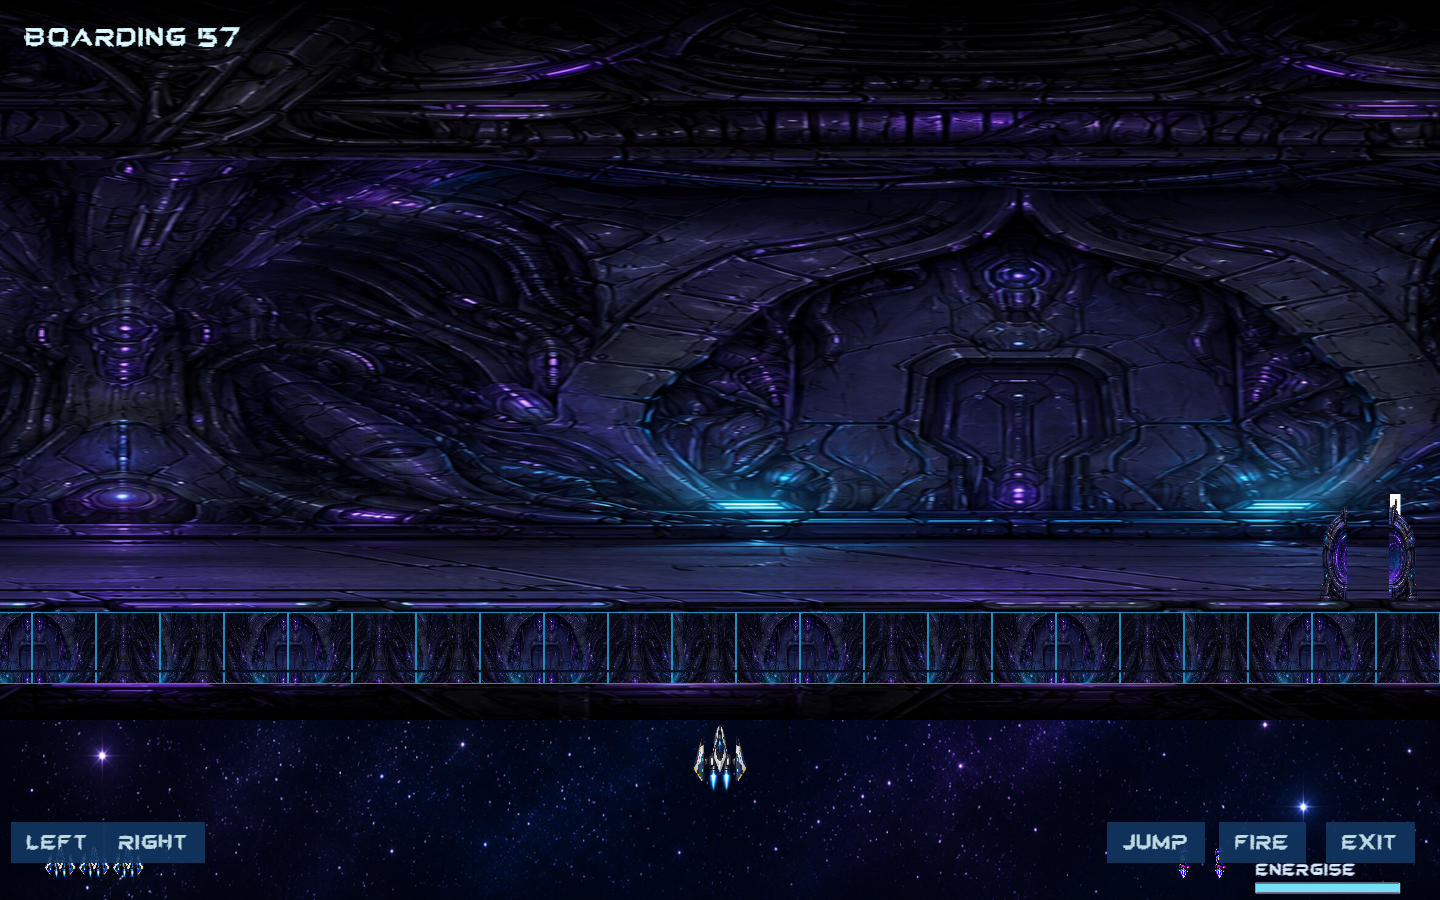
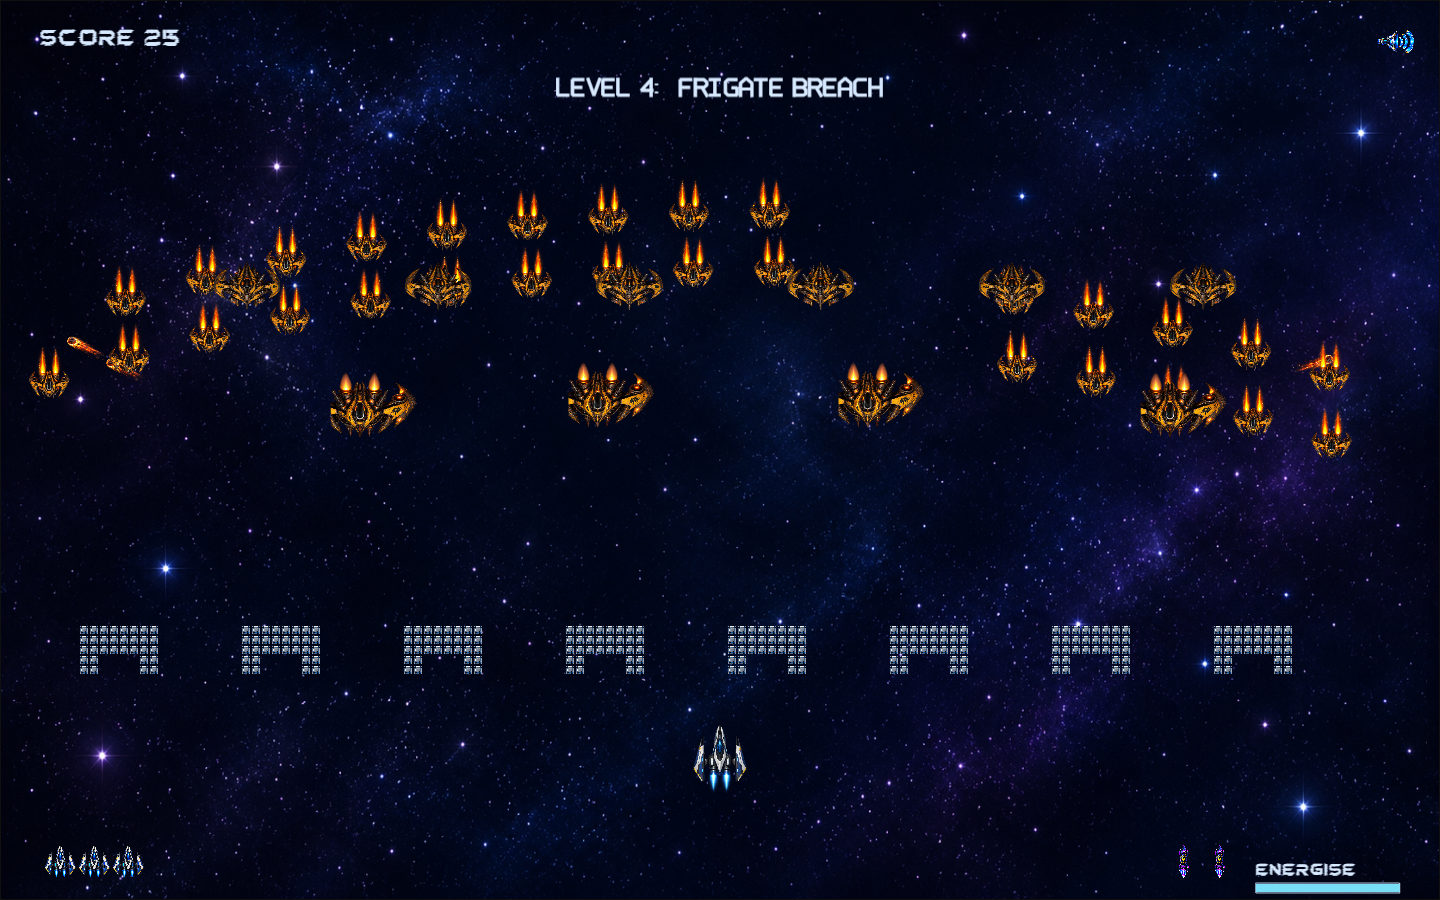
fix(h015): stabilize ordinary browser assurance

diff --git a/tests/e2e/designer-pointer.spec.ts b/tests/e2e/designer-pointer.spec.ts
@@ -58,8 +58,20 @@ test("H015-DES-POINTER-001__e2e_ordinary_user__native_mouse_drag_undo_redo_is_ex
   page,
   strictRuntime,
 }) => {
+  test.skip(
+    "hasTouch" in test.info().project.use &&
+      Boolean(test.info().project.use.hasTouch),
+    "Native mouse drag is exercised by the desktop project.",
+  );
   await loginAsAdministrator(page);
   const zoom = page.getByLabel("Canvas zoom");
+  const gridSize = Number(
+    await page
+      .getByLabel("Level configuration")
+      .getByLabel("Grid size")
+      .inputValue(),
+  );
+  expect([8, 16, 24, 32]).toContain(gridSize);
   const playfield = page.locator(".designer-playfield");
 
   for (const value of ["0.5", "0.75", "1", "1.25", "1.5"]) {
@@ -83,8 +95,8 @@ test("H015-DES-POINTER-001__e2e_ordinary_user__native_mouse_drag_undo_redo_is_ex
     expect(after.x).toBeLessThanOrEqual(1280);
     expect(after.y).toBeGreaterThanOrEqual(0);
     expect(after.y).toBeLessThanOrEqual(720);
-    expect(after.x % 16).toBe(0);
-    expect(after.y % 16).toBe(0);
+    expect(after.x % gridSize).toBe(0);
+    expect(after.y % gridSize).toBe(0);
     await page.getByRole("button", { name: "Undo" }).click();
     await expect(entity).toHaveAttribute("aria-label", beforeLabel);
     await page.getByRole("button", { name: "Redo" }).click();
@@ -103,6 +115,11 @@ test("H015-DES-POINTER-001__e2e_ordinary_user_negative__outside_drag_is_clamped_
   page,
   strictRuntime,
 }) => {
+  test.skip(
+    "hasTouch" in test.info().project.use &&
+      Boolean(test.info().project.use.hasTouch),
+    "Native mouse drag is exercised by the desktop project.",
+  );
   await loginAsAdministrator(page);
   const entity = await reachableScout(page);
   const beforeLabel = await entity.getAttribute("aria-label");
@@ -248,6 +265,11 @@ test("H015-DES-POINTER-002__e2e_ordinary_user__touch_chooser_places_a_canonical_
   page,
   strictRuntime,
 }) => {
+  test.skip(
+    !("hasTouch" in test.info().project.use) ||
+      !test.info().project.use.hasTouch,
+    "Touch interaction is exercised by the mobile and tablet projects.",
+  );
   await loginAsAdministrator(page);
   const scouts = page.locator('button[aria-label^="SCOUT at"]');
   const before = await scouts.count();
@@ -282,6 +304,11 @@ test("H015-DES-POINTER-002__e2e_ordinary_user_negative__touch_cancel_leaves_the_
   page,
   strictRuntime,
 }) => {
+  test.skip(
+    !("hasTouch" in test.info().project.use) ||
+      !test.info().project.use.hasTouch,
+    "Touch interaction is exercised by the mobile and tablet projects.",
+  );
   await loginAsAdministrator(page);
   const scouts = page.locator('button[aria-label^="SCOUT at"]');
   const before = await scouts.count();

diff --git a/tests/e2e/tenant-isolation.spec.ts b/tests/e2e/tenant-isolation.spec.ts
@@ -51,6 +51,10 @@ test("H015-PERM-002__e2e_ordinary_user_negative__command_post_member_cannot_open
   strictRuntime,
 }) => {
   await loginToCommandPost(page);
+  strictRuntime.allowRequestFailure(
+    /\/command-post\/[a-z0-9-]+\?_rsc=/,
+    /net::ERR_ABORTED/,
+  );
   strictRuntime.allowHttpFailure(
     /\/api\/v1\/portal\/organizations\/unrelated-tenant\/$/,
     404,

diff --git a/backend/tests/test_auth_surfaces.py b/backend/tests/test_auth_surfaces.py
@@ -1,7 +1,9 @@
 from django.contrib.auth.models import Permission
 from django.test import TestCase
-from rest_framework.test import APIClient
+from rest_framework.test import APIClient, APIRequestFactory
+from rest_framework.views import APIView
 
+from accounts.api import AuthenticationThrottle
 from accounts.models import User
 from players.models import PlayerProfile
 
@@ -38,6 +40,26 @@ class AuthenticationSurfaceTests(TestCase):
         )
         self.assertEqual(response.status_code, 400)
         self.assertEqual(response.data['code'], 'INVALID_REQUEST')
+
+    def test_login_throttle_scopes_attempts_to_the_normalized_account_and_client(self):
+        factory = APIRequestFactory()
+        view = APIView()
+
+        def cache_key(username, remote_addr='203.0.113.11'):
+            request = factory.post(
+                '/api/v1/auth/login/',
+                {'username': username},
+                format='json',
+                REMOTE_ADDR=remote_addr,
+            )
+            return AuthenticationThrottle().get_cache_key(view.initialize_request(request), None)
+
+        self.assertEqual(cache_key('  PLATFORM-ADMIN  '), cache_key('platform-admin'))
+        self.assertNotEqual(cache_key('platform-admin'), cache_key('command-post-review'))
+        self.assertNotEqual(
+            cache_key('platform-admin'),
+            cache_key('platform-admin', '203.0.113.12'),
+        )
 
     def test_logout_requires_csrf_and_clears_the_authenticated_session(self):
         client = APIClient(enforce_csrf_checks=True)

diff --git a/backend/accounts/api.py b/backend/accounts/api.py
@@ -42,6 +42,12 @@ def session_payload(request):
 class AuthenticationThrottle(AnonRateThrottle):
     scope = 'authentication'
 
+    def get_cache_key(self, request, view):
+        """Keep credential attempts isolated per account without sharing one NAT bucket."""
+        username = str(request.data.get('username', '')).strip().casefold() or '<anonymous>'
+        ident = f'{self.get_ident(request)}:{username}'
+        return self.cache_format % {'scope': self.scope, 'ident': ident}
+
 
 @method_decorator(ensure_csrf_cookie, name='dispatch')
 class CsrfView(APIView):
